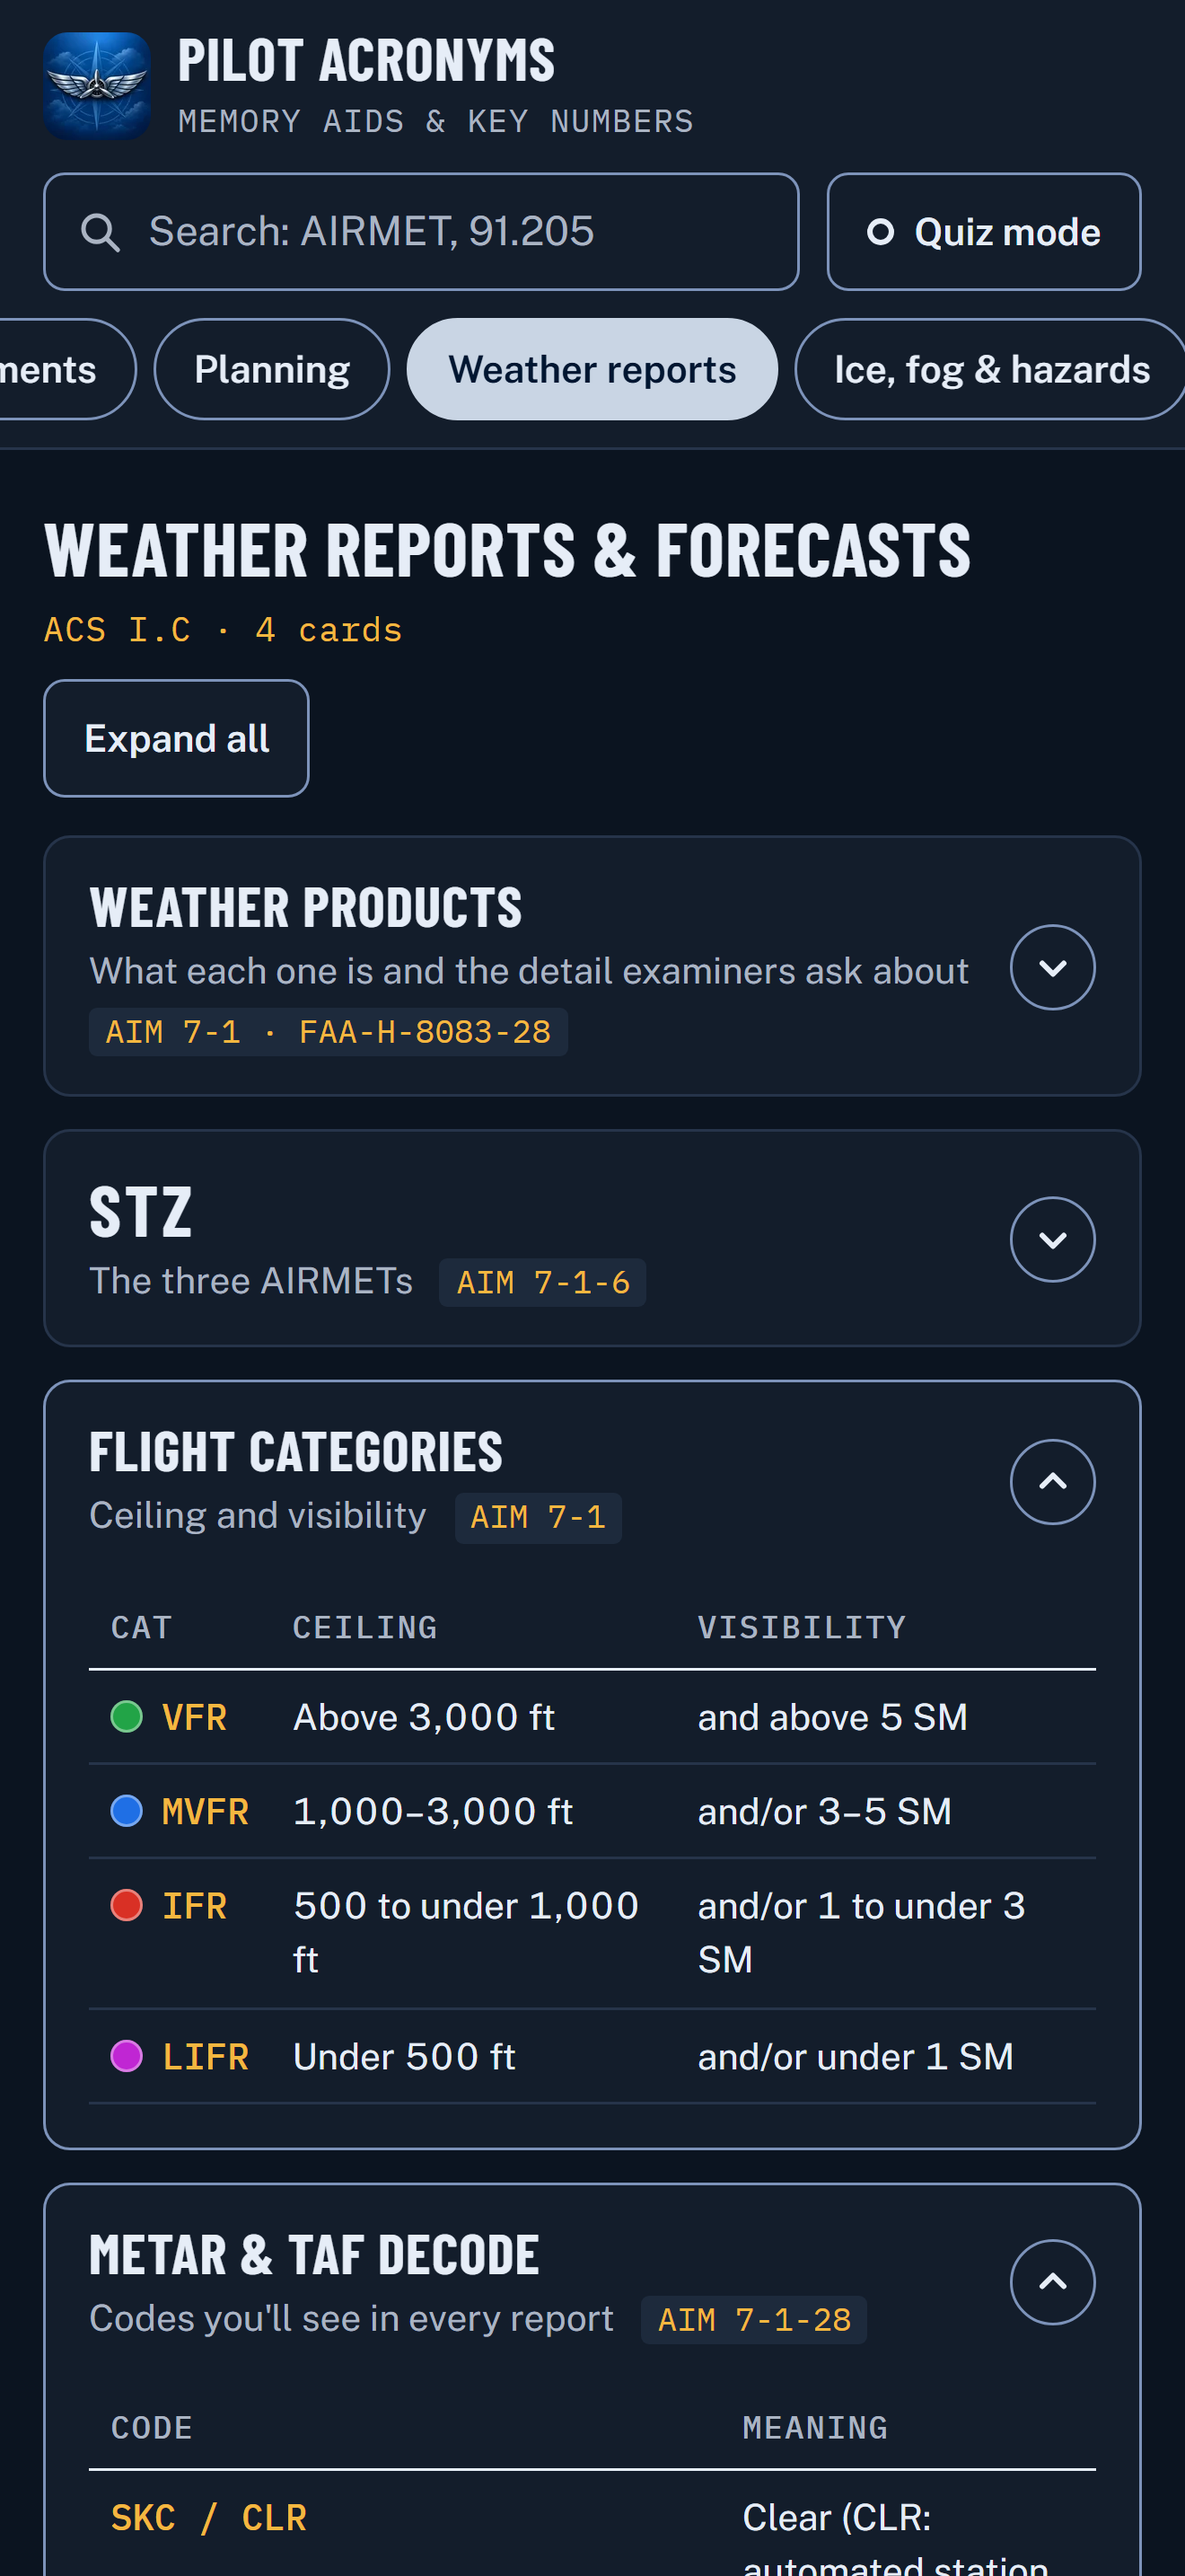
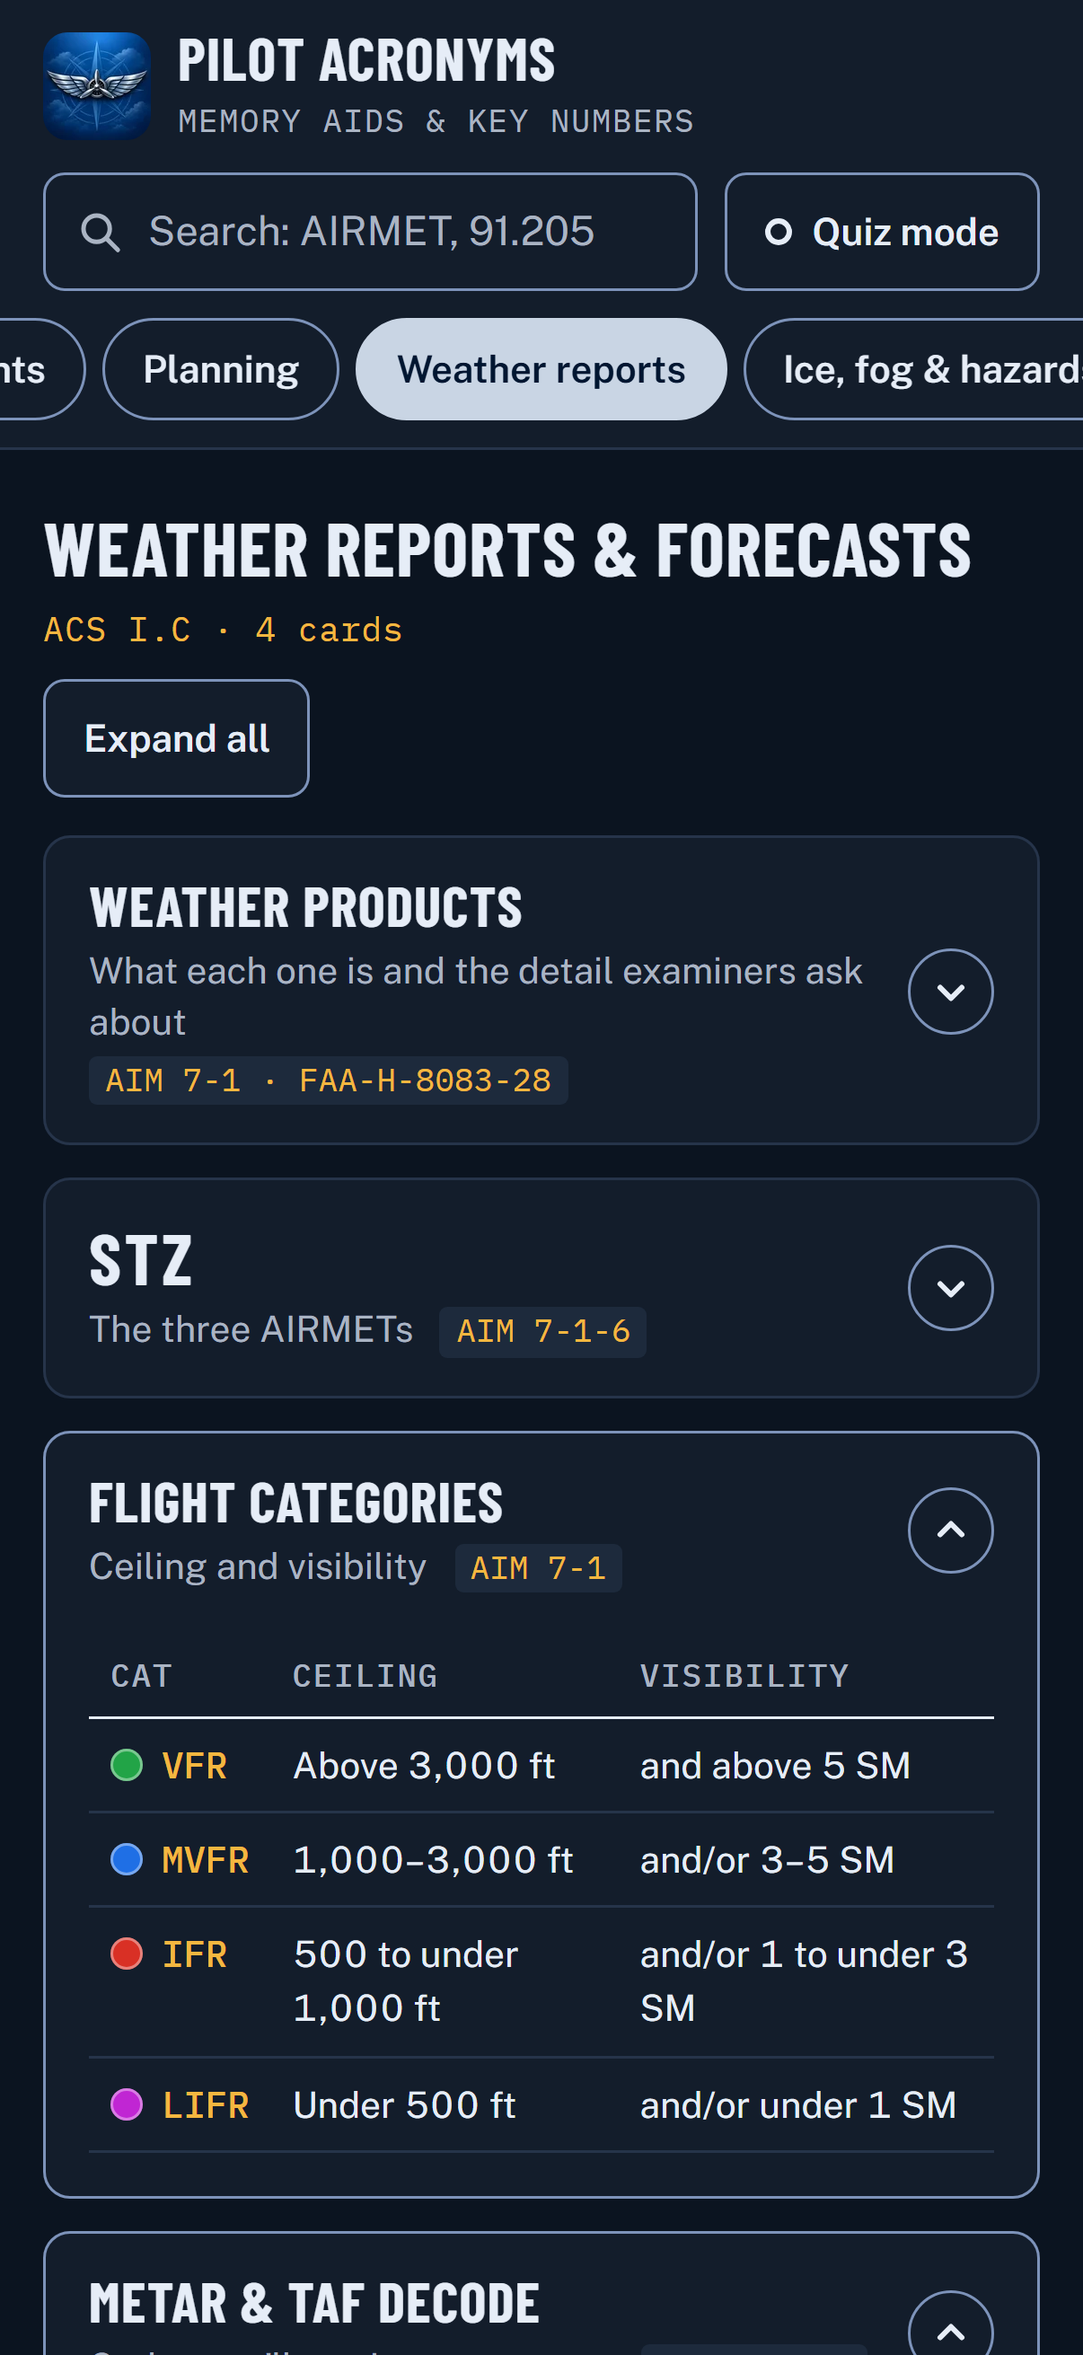
Take iPhone store screenshots at the 6.3-inch size App Store Connect asks for

diff --git a/store/listing.md b/store/listing.md
@@ -15,7 +15,7 @@ Text for the App Store and Google Play listings. Screenshots are in `store/scree
 - **Promotional text** (170 max): Learn the acronyms, mnemonics, and key numbers private pilot students need, in one offline app. Quiz yourself with answers hidden until you tap.
 - **Keywords** (100 max): private,checkride,ground school,FAA,mnemonics,ARROW,IMSAFE,airspace,METAR,VFR,aviation,flight,ACS
 - **Review notes:** No sign-in or account is needed. All content is built in and works offline. Links to official FAA and government websites open in the browser.
-- **Screenshots:** `iphone-1.png` to `iphone-5.png` for the 6.9-inch iPhone, `ipad-1.png` to `ipad-5.png` for the 13-inch iPad.
+- **Screenshots:** `iphone-1.png` to `iphone-5.png` for the 6.3-inch iPhone, `ipad-1.png` to `ipad-5.png` for the 13-inch iPad.
 
 ## Google Play
 

diff --git a/README.md b/README.md
@@ -14,7 +14,7 @@ Study app for private pilot students. The content and interface live in one page
 | `scripts/build-apk.mjs` | Runs the web build, syncs to Android, and builds the APK |
 | `scripts/store-shots.mjs` | Takes the App Store screenshots of `www/` in headless Chrome |
 | `store/icon-512.png` | The Google Play icon |
-| `store/screenshots/` | App Store screenshots: 6.9-inch iPhone and 13-inch iPad |
+| `store/screenshots/` | App Store screenshots: 6.3-inch iPhone and 13-inch iPad |
 | `store/listing.md` | Store listing text: subtitle, keywords, description, and URLs |
 | `privacy-policy.html`, `support.html` | The public privacy policy and support pages, generated from the page and served by GitHub Pages |
 | `android/` | The Android project |
